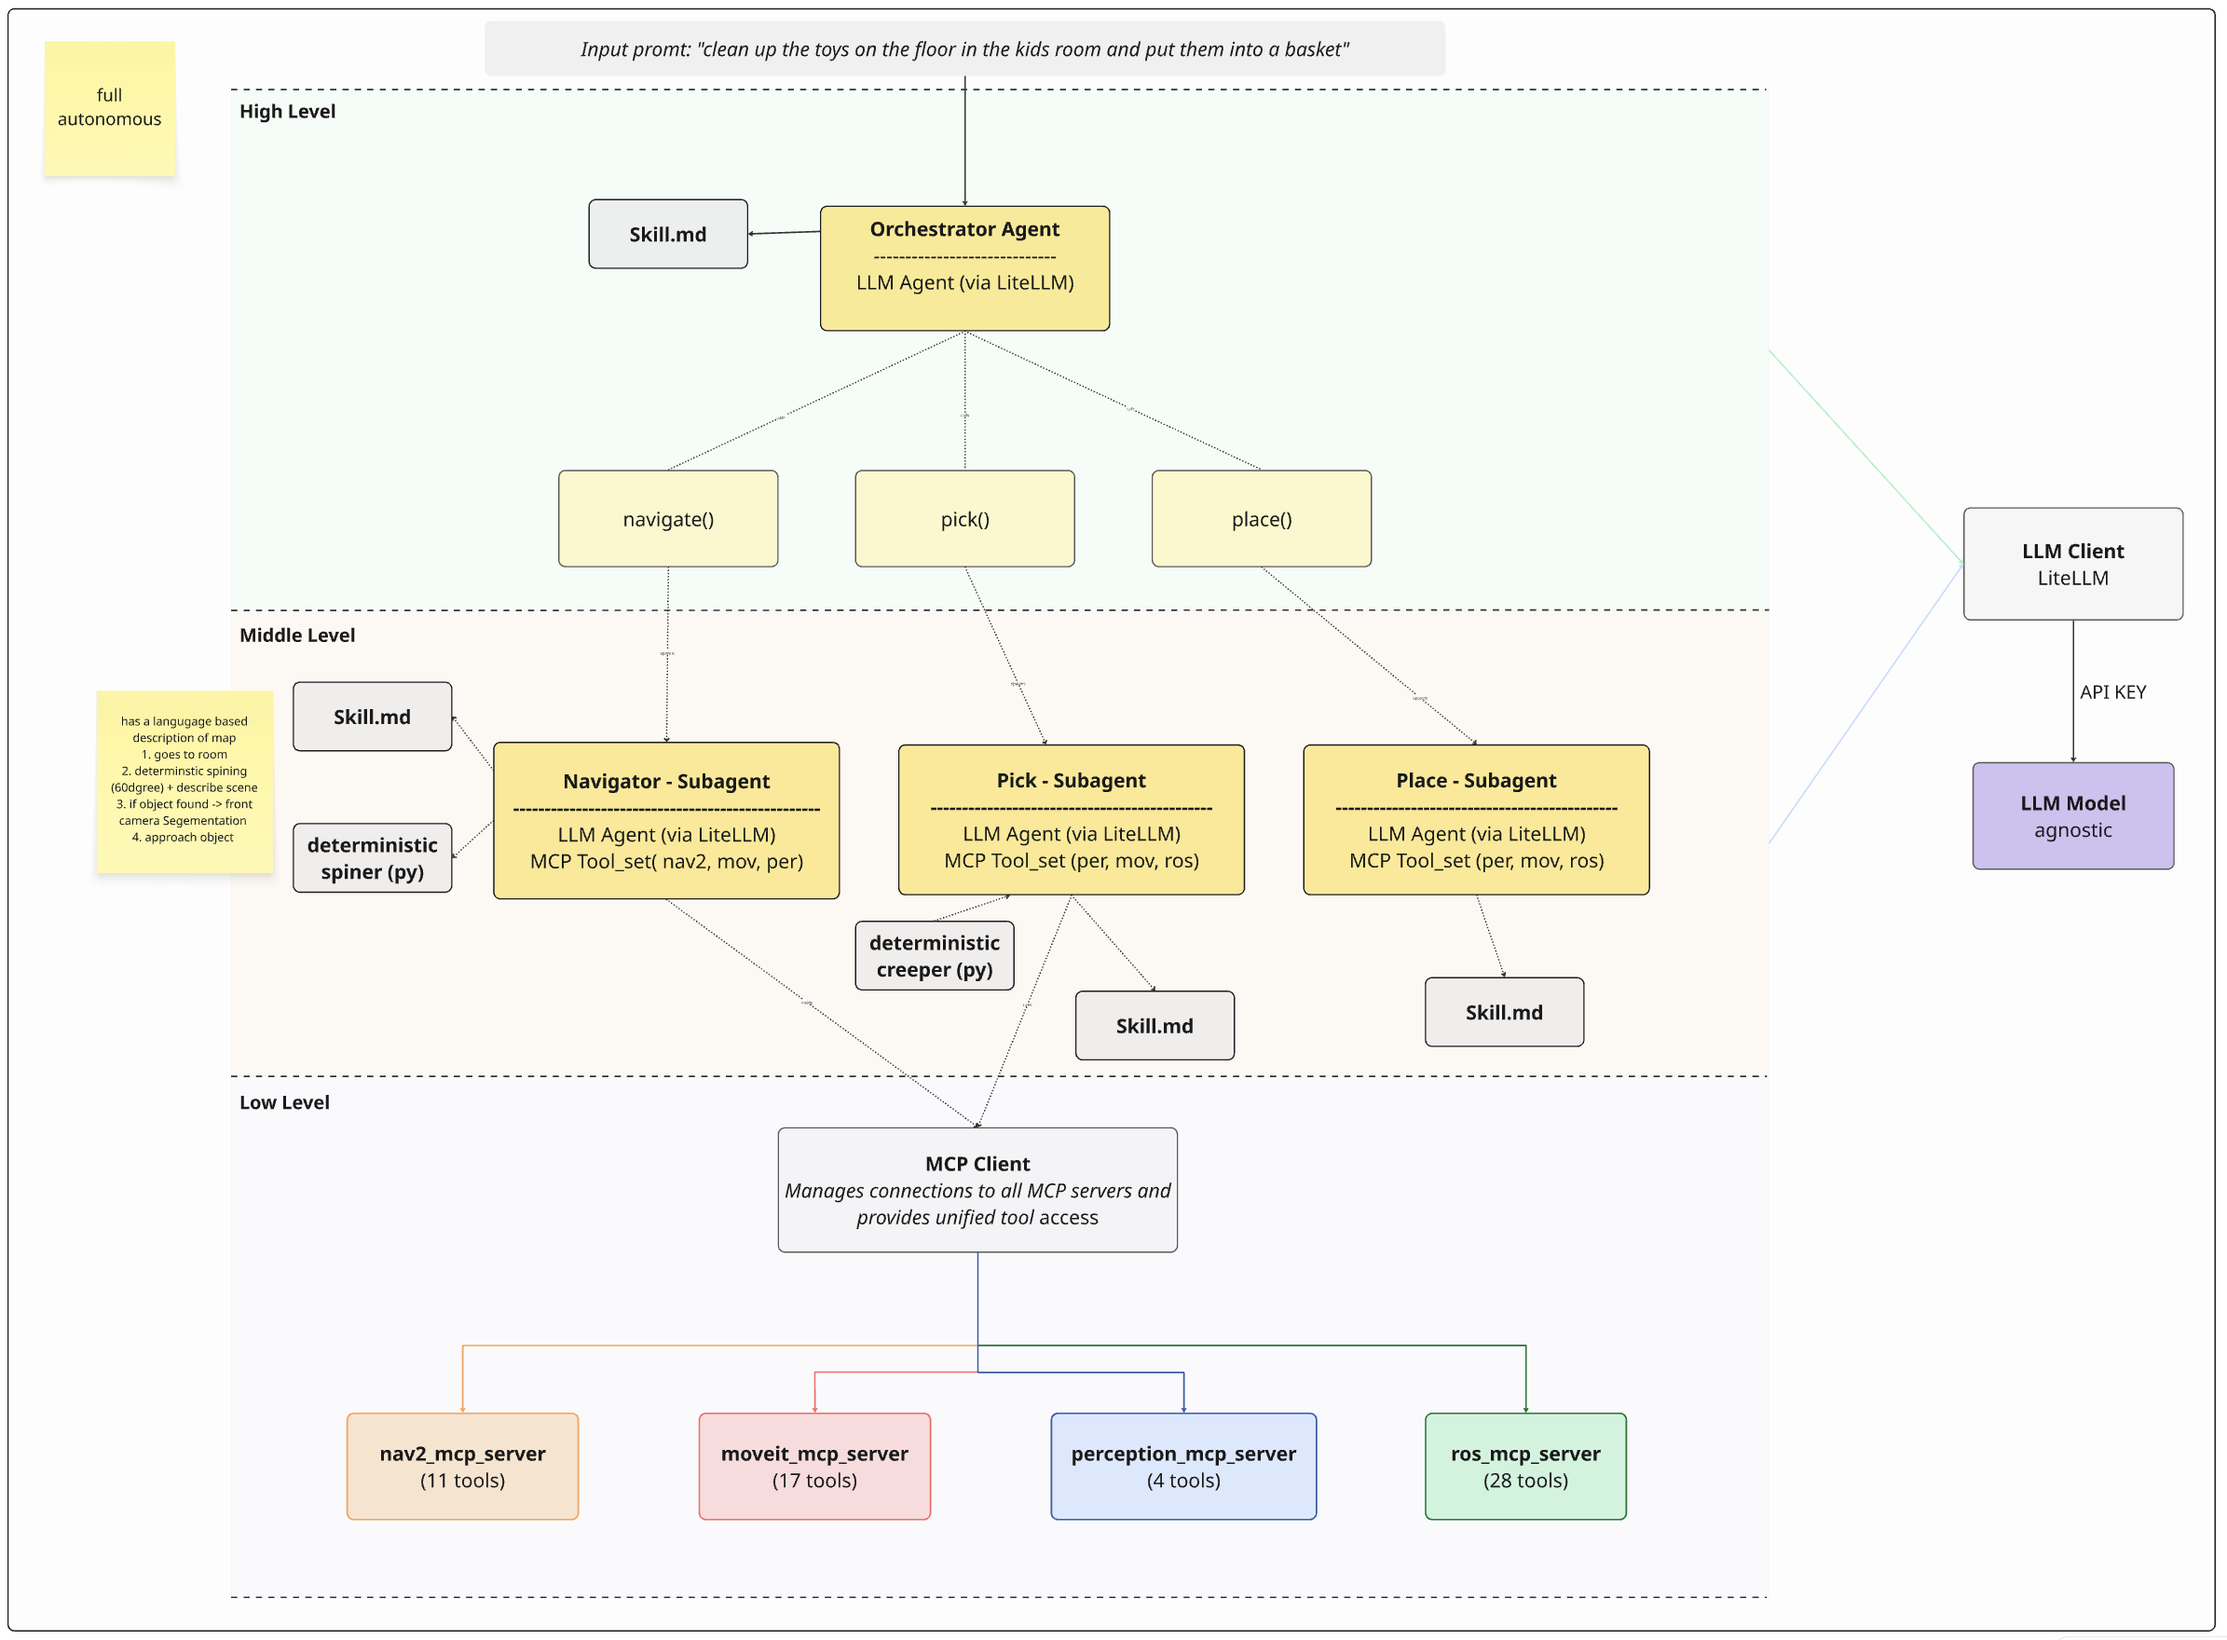
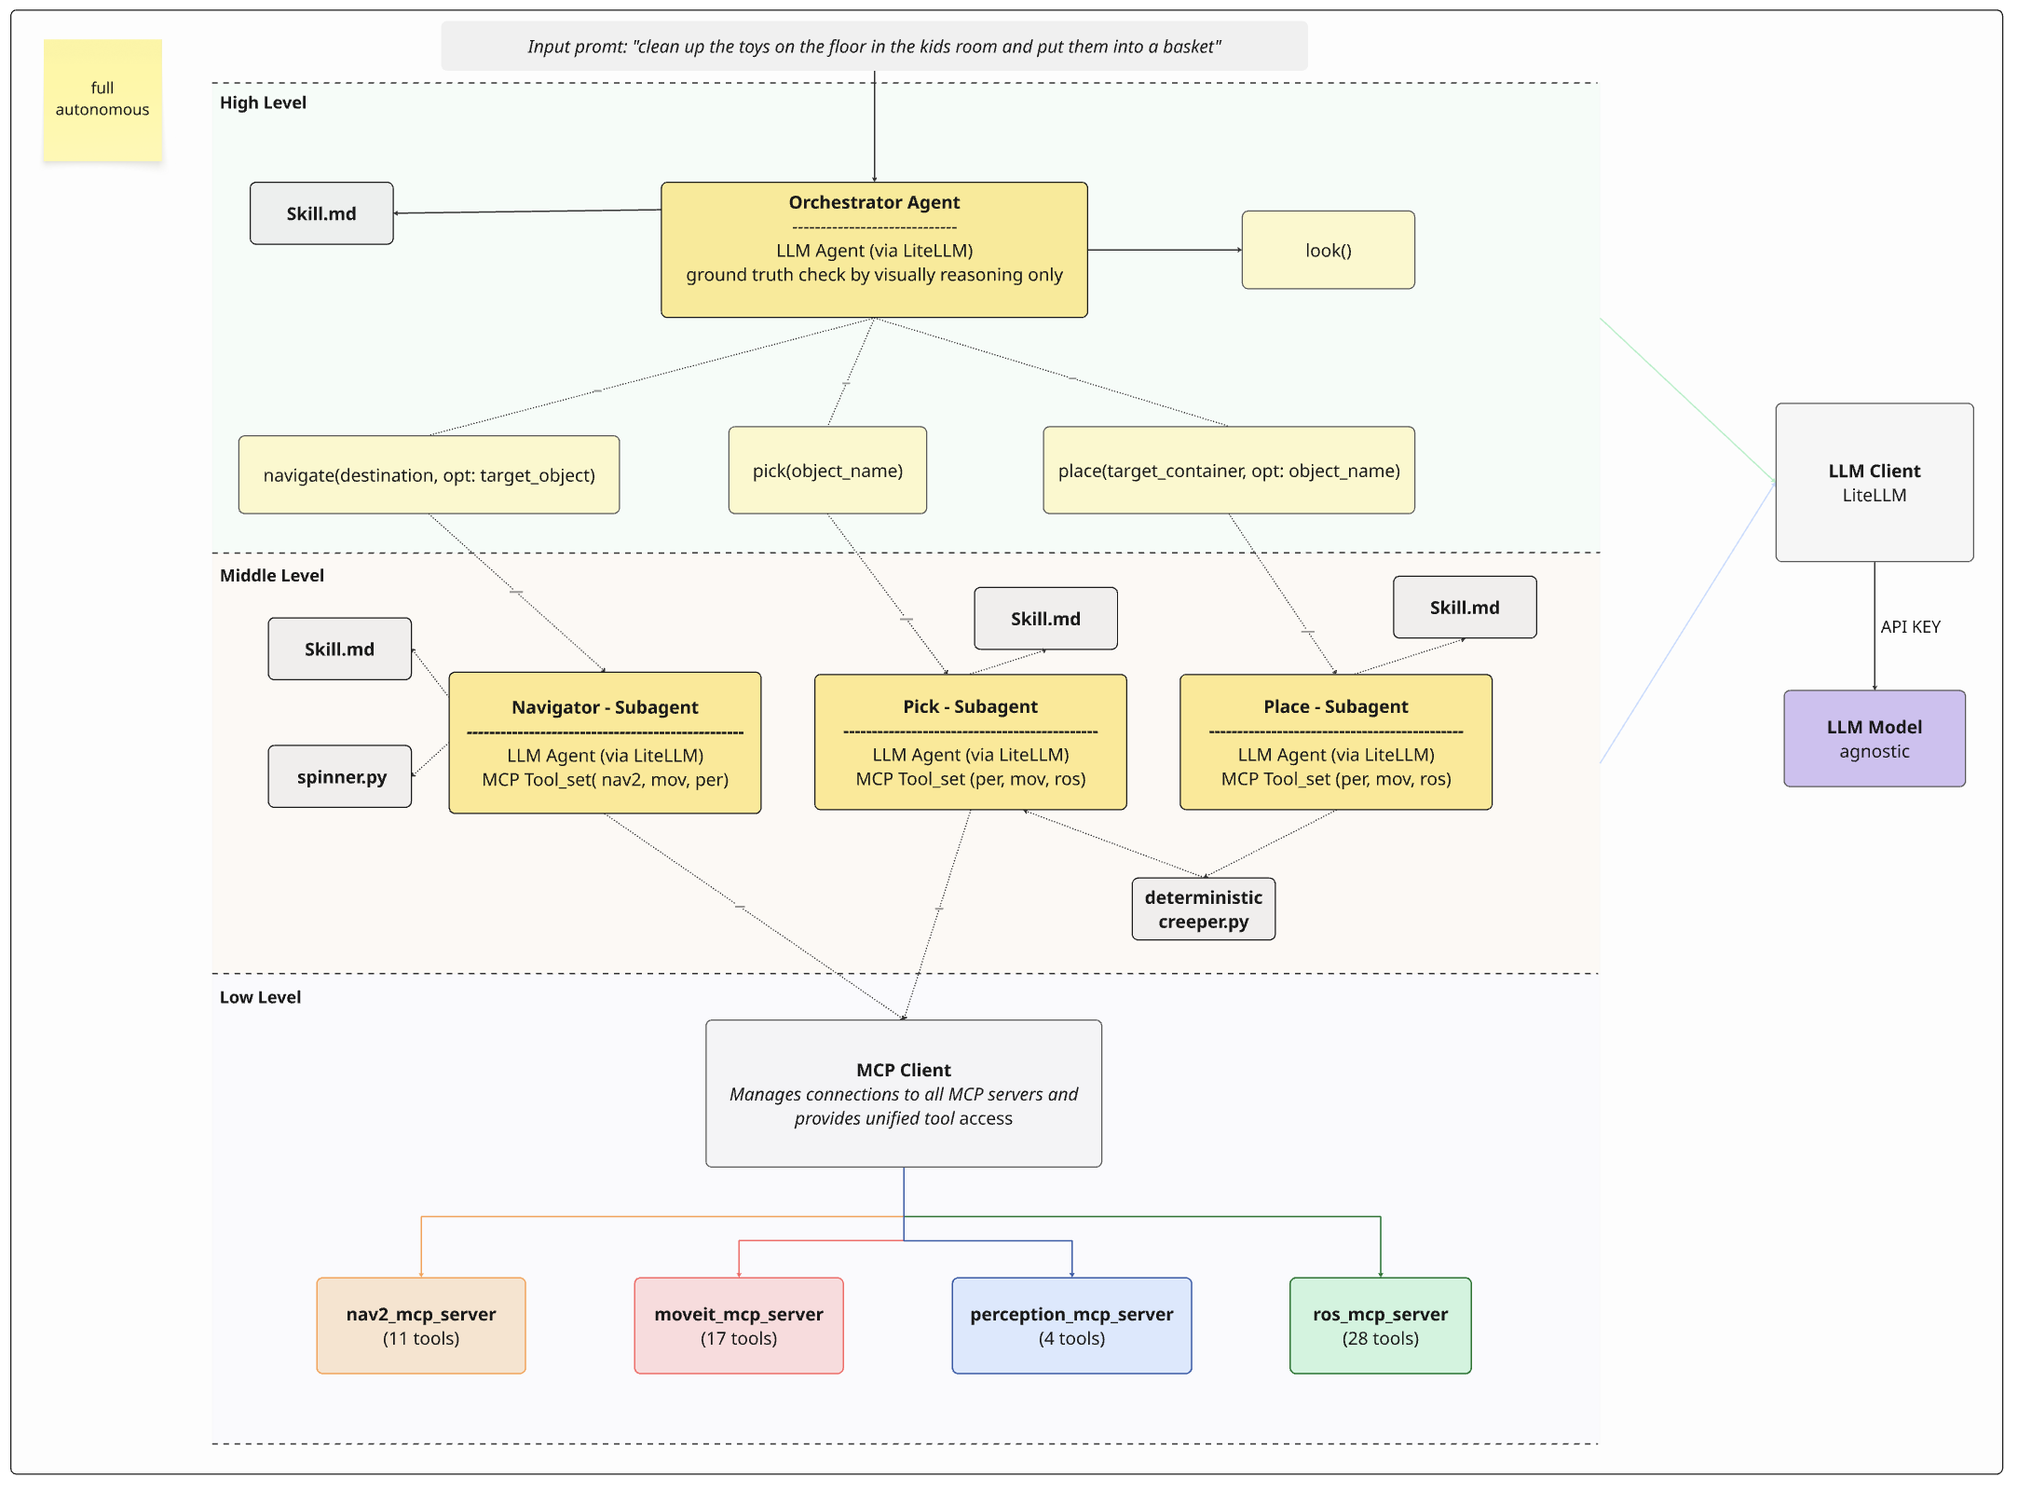
updated README.md

diff --git a/README.md b/README.md
@@ -1,97 +1,157 @@
-# Multi-Agent Room Cleaning System
+# Multi-Agent Long-Horizon Manipulation
 
-A three-agent system for autonomous pick-and-place tasks on a Summit XL mobile manipulator using ROS 2 Jazzy. Built with [LiteLLM](https://github.com/BerriAI/litellm) (provider-agnostic) and [MCP](https://modelcontextprotocol.io/) (Model Context Protocol) for robot control.
+A four-agent system for autonomous pick-and-place tasks on a Summit XL mobile manipulator (UR5 + Robotiq 2F-140) using ROS 2 Jazzy. Built with [LiteLLM](https://github.com/BerriAI/litellm) (provider-agnostic LLM client) and [MCP](https://modelcontextprotocol.io/) (Model Context Protocol) for robot control.
+
+**Bachelor thesis context:** comparison of three architectures (single-agent, multi-agent, deterministic skill-based) for long-horizon agentic manipulation. This module is the multi-agent track.
 
 ## Architecture
 
-![Architecture diagram](docs/architecture.png)
+![Multi-agent architecture](docs/architecture.png)
 
-- **Orchestrator** — owns the task list and location map. Decomposes "pick X from A, place on B" into navigate/pick/place tool calls.
-- **Navigator** — narrow skill that drives to a given `(x, y, yaw)` pose and verifies arrival using `describe_scene` (Claude Vision). Does NOT explore.
-- **Executor** — handles perception (segmentation, grasp planning) and manipulation (MoveIt motion planning, gripper control).
+The system is a three-tier agentic stack:
 
-All robot interaction goes through 4 MCP servers (ros, moveit, nav2, perception) — no Python scripts touch ROS directly.
+- **High level — Orchestrator (full autonomy).** Receives a natural-language task, decomposes it into `navigate(...)`, `pick(...)`, `place(...)` sub-agent calls, and uses `look()` for visual ground-truth checks between steps. Reasoning-only — never touches ROS directly.
+- **Middle level — Sub-agents.** Three LLM agents (Navigator, Pick, Place) each with a markdown skill prompt and a filtered MCP tool set. Navigator includes a deterministic spin-search helper; Pick and Place share a deterministic creeper helper.
+- **Low level — MCP client + 4 MCP servers.** All ROS interaction goes through MCP (`ros_mcp_server`, `moveit_mcp_server`, `nav2_mcp_server`, `perception_mcp_server`). No Python script touches ROS topics or actions directly.
+
+LLM access goes through a single LiteLLM client → any provider (Anthropic, OpenAI, local Ollama, OpenAI-compatible endpoints).
+
+Each agent is an LLM (default `claude-sonnet-4-20250514`) with a markdown **skill prompt** in `skills/` that defines its procedure, plus a filtered set of MCP tools.
+
+- **Orchestrator** (`orchestrator.py`, `skills/orchestrator.md`) — owns task decomposition. Calls navigate/pick/place sub-agents. Reasoning-only; does NOT touch ROS directly.
+- **Navigator** (`navigator.py`, `skills/navigator.md`) — drives to a known map area, verifies arrival via `look()` + LLM vision + SAM3 target check on either camera. Includes a deterministic spin-search fallback when the target is missing.
+- **Pick** (`pick.py`, `skills/pick.md`) — segment → grasp pose → reach check → optional `creep_closer` (drives base into reach via nav2) → pre-grasp → lower → close → verify via `/gripper/status`.
+- **Place** (`place.py`, `skills/place.md`) — three placement modes:
+  - **Floor** — fast path, no segmentation, soft contact (object-height-aware descent)
+  - **Surface** — segment-from-above (arm cam at `look_down_high`) for accurate top-z, then soft contact
+  - **Container** — full two-stage (front-cam coarse → arm-cam refine) with creep
+
+## Scope (multi-agent track)
+
+**In scope:** floor pickup (cube, ball, shoe, can on floor) + low coffee table (~0.45m) pickup, floor placement, container placement (trash bin, drainer).
+
+**Out of scope:** higher surfaces (kitchen counter, dining table). These are explicitly left to the skill-based architecture for thesis comparison — multi-agent's lack of cross-step reasoning makes height-dependent standoff and complex recovery brittle.
 
 ## Prerequisites
 
-- ROS 2 Jazzy environment with Summit XL simulation running
+- ROS 2 Jazzy + Summit XL simulation up (Gazebo, MoveIt, Nav2 stack, SAM3 segmentation nodes for arm + front cameras)
 - Rosbridge WebSocket server on port 9090
-- 4 MCP servers running (see `start_mcp_servers.sh`):
+- 4 MCP servers running and reachable (default ports below):
   - `ros-mcp-server` on port 8888
   - `moveit-mcp-server` on port 8001
   - `nav2-mcp-server` on port 8002
   - `perception-mcp-server` on port 8003
 
+Each MCP server is its own repository. Install + run them separately. Connection URLs are configured in your `.mcp.json`.
+
 ## Setup
 
-1. Install Python dependencies:
+1. Install dependencies:
+   ```bash
+   pip install litellm mcp --break-system-packages
+   ```
 
-```bash
-pip install litellm mcp --break-system-packages
-```
+2. Configure environment:
+   ```bash
+   cp .env.example .env
+   # Edit .env: set ANTHROPIC_API_KEY (or OPENAI_API_KEY, or any LiteLLM-supported provider)
+   ```
 
-2. Configure environment variables:
-
-```bash
-cp .env.example .env
-# Edit .env and set your API key
-```
-
-3. Make sure the MCP servers are running:
-
-```bash
-cd ~/rap
-./start_mcp_servers.sh
-```
-
-4. Verify the `.mcp.json` file exists in the parent directory (`~/rap/.mcp.json`) with the correct server URLs.
+3. Source env vars before running:
+   ```bash
+   set -a && source .env && set +a
+   ```
 
 ## Usage
 
-### Full orchestrator (all three agents)
+### Full orchestrator (long-horizon task)
 
 ```bash
-python -m multi_agent.main
+python3 -u -m multi_agent.main --task "Pick up the white cube in the kids room and drop it in the trash bin"
 ```
 
-### Test executor only (pick + place on same surface)
-
-Assumes the robot is already positioned in front of the target object.
+### Test individual agents (skip orchestrator)
 
 ```bash
-python -m multi_agent.main --test-executor
+# pick agent — assumes robot is already near the target
+python3 -m multi_agent.main --test-pick "white cube"
+
+# place agent — assumes robot is holding an object near the target
+python3 -m multi_agent.main --test-place "trash bin"
+python3 -m multi_agent.main --test-place "the floor in front of you"   # floor mode
+
+# navigator agent — drives to area + verifies arrival
+python3 -m multi_agent.main --test-navigator "kids room" --target-object "white cube"
 ```
 
-### Test navigator only (drive to a location)
+### Verbose logging (debugging)
 
 ```bash
-python -m multi_agent.main --test-navigator
+python3 -u -m multi_agent.main --task "..." --verbose
 ```
 
-### Verbose logging
+Default mode strips timestamps and framework noise — agent traces read like a narrative of decisions and tool calls. `--verbose` adds full timestamps + LiteLLM/MCP framework lines for debugging.
+
+## LLM provider
+
+Default is Anthropic Claude. To switch:
 
 ```bash
-python -m multi_agent.main -v
+export LLM_MODEL=gpt-4o                                # OpenAI
+export LLM_MODEL=ollama/llama3                         # local Ollama
+export LLM_MODEL=anthropic/claude-sonnet-4-20250514    # Anthropic (default)
 ```
 
-## Configuration
+Or per-role:
+```bash
+export ORCHESTRATOR_MODEL=anthropic/claude-opus-4
+export EXECUTOR_MODEL=anthropic/claude-sonnet-4
+export NAVIGATOR_MODEL=anthropic/claude-sonnet-4
+```
 
-Edit `main.py` to customize:
-
-- **`LOCATION_MAP`** — known locations with `(x, y, yaw)` approach poses in the map frame
-- **`TASK_LIST`** — objects to pick, where to pick them from, and where to place them
-
-## Project Structure
+## Project structure
 
 ```
 multi_agent/
-├── main.py           # Entry point, config, CLI
-├── orchestrator.py   # Top-level planner agent
-├── navigator.py      # Navigation skill agent
-├── executor.py       # Pick/place manipulation agent
-├── llm_client.py     # Provider-agnostic LLM wrapper (LiteLLM)
-├── mcp_client.py     # MCP server connection manager
-├── prompts.py        # System prompts for all agents
-├── .env.example      # Environment variable template
+├── main.py                # Entry point, CLI, logging config
+├── orchestrator.py        # Top-level planner — calls navigate/pick/place
+├── navigator.py           # Navigation agent + post-step (verify gate, spin-search)
+├── pick.py                # Pick agent + creep_closer helper
+├── place.py               # Place agent + creep_closer helper + verify_object_placed
+├── llm_client.py          # LiteLLM wrapper (provider-agnostic)
+├── mcp_client.py          # Async MCP server connection manager
+├── skills/
+│   ├── orchestrator.md
+│   ├── navigator.md       # Map / entry poses / pickable + placeable tables
+│   ├── pick.md
+│   └── place.md
+├── docs/                  # Architecture diagrams + thesis-related docs
+├── .env.example
 └── README.md
 ```
+
+## Map / environment knowledge
+
+The navigator's environment knowledge (room layout, entry poses, pickable objects, place targets) lives in `skills/navigator.md`. Update that file when:
+- Adding/moving objects in the world
+- Adjusting room layout or entry poses
+- Discovering better SAM3 prompts for an object class
+
+This is intentional: map knowledge is operational deployment configuration (any robot needs it). It is NOT hardcoded sim behavior — the same skills file works on a real Summit XL with the same map.
+
+## Real-world deployability
+
+Code in this module is designed to deploy to a real Summit XL after the thesis. No `gz model` calls or Gazebo plugin usage in production logic. Only validated, real-world-compatible primitives:
+- TF lookups via `nav2__get_robot_pose` (live `tf2_ros` listener with dedicated executor)
+- nav2 actions (`navigate_to_pose`, `DriveOnHeading`, `spin_robot`) for base motion
+- MoveIt actions (`plan_and_execute`) for arm motion
+- SAM3-based segmentation for perception
+- Standard `/gripper/status` for grasp verification
+
+Sim-only references (model names, world coordinates) are confined to the skill prompts (`skills/navigator.md`) — they are operational configuration, not application code.
+
+## Known limitations
+
+- **nav2_mcp_server zombie goal** — when an MCP timeout fires, the server-side action goal stays active. Robot may execute the goal autonomously minutes later. Workaround: full sim restart on timeout.
+- **Gripper force-detach DDS race** — `/gripper/force_detach_str` publish occasionally fails silently. Workaround: verify via `/gripper/status` and retry.
+- **Verify-gate false positives on surface placement** — the front-cam check "object no longer visible" passes when an object falls behind / under furniture, looking identical to a real successful container drop. Reliable surface placement requires arm-cam-from-above verification.
